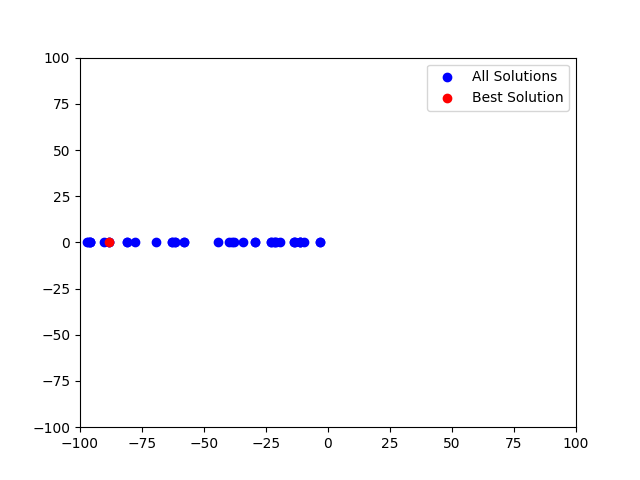
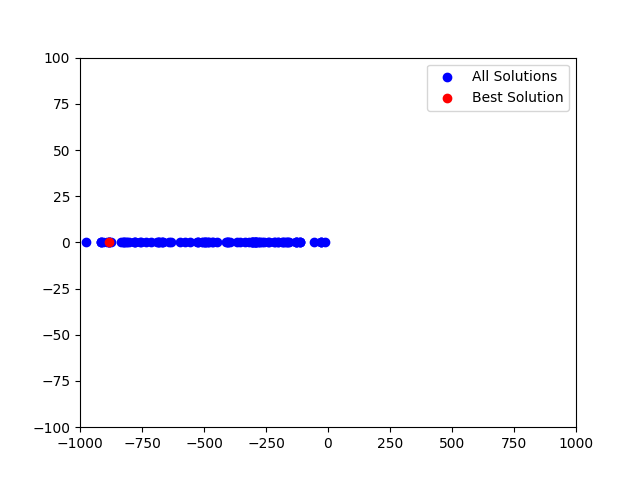
Merging with Changes

diff --git a/recursive_attack.py b/recursive_attack.py
@@ -25,17 +25,17 @@ def inverse_udldu(udldu):
         return loss
 
     # Define bounds to -100 and 100
-    bounds = [(-100, 100)]  # Adjusted bounds
+    bounds = [(-1000, 1000)]  # Adjusted bounds
 
     iteration_count = 0
-    min_iterations = 40
+    min_iterations = 100
     max_iterations = 1000
     convergence_iteration = None
 
     # Initialize the plot
     fig, ax = plt.subplots()
     ax.set_xlim(bounds[0])
-    ax.set_ylim([-5, 5])  # Adjust as necessary for your specific problem
+    ax.set_ylim([-1, 1])  # Adjust as necessary for your specific problem
 
     all_solutions = []
     all_objectives = []

diff --git a/main.py b/main.py
@@ -74,7 +74,7 @@ def main():
         net = CNN6d().to(**setup).eval()
     else:
         net = FCN3().to(**setup).eval()
-    pred_loss_fn = logistic_loss
+    pred_loss_fn = exponential_loss
 
     tt = torchvision.transforms.ToTensor()
     tp = torchvision.transforms.ToPILImage()
